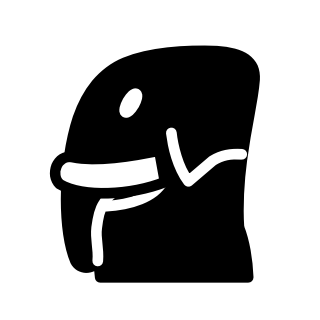
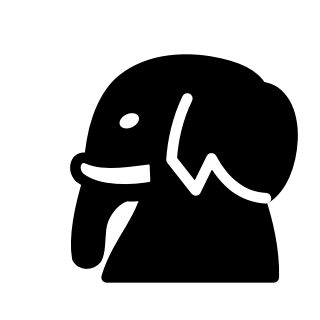
Elephant art: option D with a smaller head and a flat knight-style bottom

Changed region(s): [[0.1562, 0.125, 0.9375, 0.9062], [0.375, 0.25, 0.4688, 0.4062]]

diff --git a/art/source/elephant_options/make_option_f.py b/art/source/elephant_options/make_option_f.py
@@ -1,0 +1,39 @@
+import os, re, sys
+OUT = os.path.dirname(os.path.abspath(__file__))
+K = float(sys.argv[1]) if len(sys.argv) > 1 else 0.85   # head scale
+AX, AY = (float(v) for v in (sys.argv[2:4] if len(sys.argv) > 3 else (26, 30)))  # point the head shrinks toward
+STYLE = {
+ "white": dict(fill="#fff", line="#000", detail="#000", eye="#000"),
+ "black": dict(fill="#000", line="#000", detail="#fff", eye="#fff"),
+}
+def shrink(d):
+    """Scale every x,y pair in a path toward the anchor point."""
+    def f(m):
+        x, y = float(m.group(1)), float(m.group(2))
+        return f"{AX + (x - AX) * K:.2f},{AY + (y - AY) * K:.2f}"
+    return re.sub(r"(-?\d+(?:\.\d+)?),(-?\d+(?:\.\d+)?)", f, d)
+
+# The head from option D (dome, ear, trunk, jaw), split off from the neck.
+HEAD_FILL = "M 8.2,37.4 C 7.6,34 8.6,29 10,24.5 C 10.2,18.5 11.2,13 14.2,9.3 C 17.7,5.1 24.2,3.9 30.2,4.9 C 34.8,5.7 37.6,7.1 38.6,9.1 C 42,9.3 44,13.1 43.8,17.7 C 43.6,22.1 42,25.9 39.4,27.5 L 30,29 L 20.8,26.4 C 19.6,27 17.8,27.3 16.2,27.1 C 13.8,28.2 12.4,30.4 12.1,32.6 C 11.9,34.6 12,36.4 11.4,37.5 C 10.6,38.6 8.8,38.6 8.2,37.4 Z"
+HEAD_OUTLINE = "M 20.8,26.4 C 19.6,27 17.8,27.3 16.2,27.1 C 13.8,28.2 12.4,30.4 12.1,32.6 C 11.9,34.6 12,36.4 11.4,37.5 C 10.6,38.6 8.8,38.6 8.2,37.4 C 7.6,34 8.6,29 10,24.5 C 10.2,18.5 11.2,13 14.2,9.3 C 17.7,5.1 24.2,3.9 30.2,4.9 C 34.8,5.7 37.6,7.1 38.6,9.1 C 42,9.3 44,13.1 43.8,17.7 C 43.6,22.1 42,25.9 39.4,27.5"
+EAR = "M 26.4,11 C 24.8,14.3 24,17.9 23.8,21.1 L 27.8,26.2 L 30.4,20.9 C 32.6,25 35.6,27.3 39.4,27.5"
+TUSK = "M 21,20.9 C 17.2,21.3 12.8,22.3 9.8,20.9 C 8,20.3 7.2,22.7 8.6,24.1 C 11.8,26.5 17.2,26.3 21.2,25.5 Z"
+EYE = (16.8, 14.7)
+
+def svg(c, neck):
+    s = STYLE[c]
+    ex, ey = (AX + (EYE[0] - AX) * K, AY + (EYE[1] - AY) * K)
+    return f'''<svg xmlns="http://www.w3.org/2000/svg" width="45" height="45" viewBox="0 0 45 45"><g stroke-width="1.5" stroke-linecap="round" stroke-linejoin="round">
+<path fill="{s["fill"]}" stroke="{s["line"]}" d="{neck}"/>
+<path fill="{s["fill"]}" stroke="none" d="{shrink(HEAD_FILL)}"/>
+<path fill="none" stroke="{s["line"]}" d="{shrink(HEAD_OUTLINE)}"/>
+<path fill="none" stroke="{s["detail"]}" d="{shrink(EAR)}"/>
+<path fill="#fff" stroke="#000" d="{shrink(TUSK)}"/>
+<ellipse cx="{ex:.2f}" cy="{ey:.2f}" rx="{1.7*K:.2f}" ry="{1.15*K:.2f}" transform="rotate(-25 {ex:.2f} {ey:.2f})" fill="{s["eye"]}" stroke="none"/>
+</g></svg>'''
+
+# The neck: widens to a flat bottom like the knight's. Its top is hidden under the head.
+NECK = sys.argv[4] if len(sys.argv) > 4 else "M 15,39 L 38.5,39 C 38.6,35 37.6,31 36.6,28 L 30,25 L 21,25 C 20.6,30.5 16.6,33.6 15,39 Z"
+for c in ("white", "black"):
+    open(os.path.join(OUT, f"{c}_elephant.svg"), "w").write(svg(c, NECK))
+print("ok")

diff --git a/CLAUDE.md b/CLAUDE.md
@@ -32,7 +32,7 @@ Everything in the rules engine should be built so standard chess is just one con
 * Mobile is a must: portrait layout (720x1280 viewport, scales to any screen; 450x800 window on PC), tap-to-move (a mouse click works the same). Board uses classic light/dark squares (#F0D9B5 / #B58863).
 * Piece art: the "Cburnett" set from Wikimedia Commons (Mac supplied the sprite sheet). It is licensed (CC BY-SA 3.0 / GPL / BSD / GFDL), so a published game must credit it (e.g. "Chess pieces by Cburnett, CC BY-SA 3.0") — remind Mac before any release. Style folder: `res://art/pieces/standard/`. New piece types will need matching art (ask Mac).
 * Board orientation: White always at the bottom, nothing drawn upside down (no flipping).
-* First custom piece: the **Elephant** (`res://data/pieces/elephant.tres`, symbol E): jumps exactly 2 squares diagonally (can't be blocked, stays on one colour), captures the same way. Value 1.5 (`PieceDef.value` is a float). Art: option E in `res://art/source/elephant_options/`, traced from Mac's second reference image: side view facing left, low dome head flowing into a wide trunk, banana-shaped ivory tusk, notched ear line, jaw line, no base (flat bottom like the knight), no shading, knight-style eye. A–D kept there as earlier attempts.
+* First custom piece: the **Elephant** (`res://data/pieces/elephant.tres`, symbol E): jumps exactly 2 squares diagonally (can't be blocked, stays on one colour), captures the same way. Value 1.5 (`PieceDef.value` is a float). Art: option F in `res://art/source/elephant_options/` — option D (side view facing left, dome head, hanging trunk, curved ivory tusk, notched ear sticking out behind) with the head shrunk to 85% and the base removed: the neck flares to a wide flat bottom like the knight's. `make_option_f.py` there regenerates it (head scale and anchor are arguments). A–E kept as earlier attempts.
 * Custom piece art is drawn by Claude as SVG in the Cburnett style (45x45 canvas, 1.5 black outline, white or black fill, white detail lines on black pieces), saved in `res://art/source/pieces/<team>_<id>.svg`, rendered to PNG with `tools/render_piece_svg.gd`. Offer Mac a few options per piece.
 * Draws end the game automatically: 50-move rule, threefold repetition, and positions where checkmate is impossible (worked out from move data; custom pieces will need more thought later).
 
